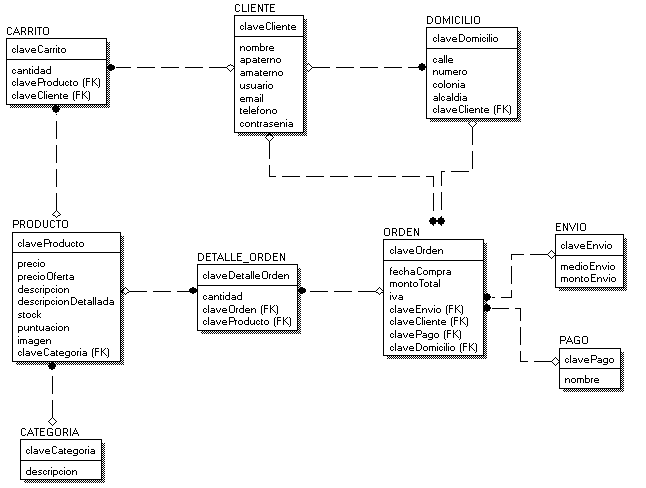
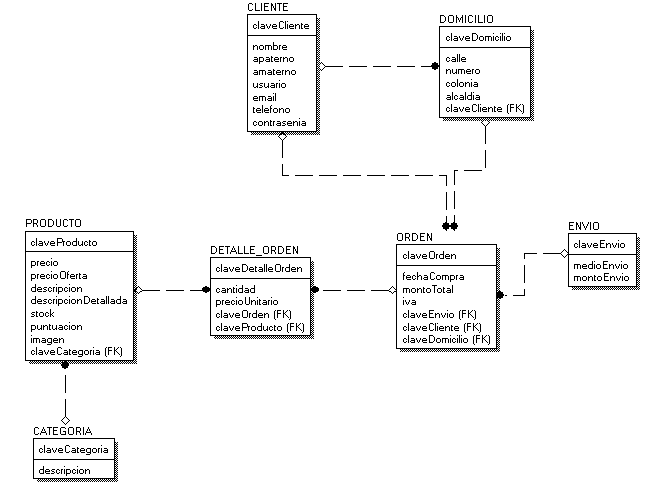
Se implemento agregar los detalles de orden en la BD

diff --git a/pago.php b/pago.php
@@ -49,7 +49,7 @@
                     <div class="grid col-2 ms-2">
                         <div class="span-2">
                             <label for="nombre" class="form-label">Nombre</label>
-                            <input type="text" name="nombre" class="form-input" maxlength="100" equired>
+                            <input type="text" name="nombre" class="form-input" maxlength="100" required>
                         </div>
 
                         <div class="span-1 med-span-2">
@@ -69,7 +69,7 @@
 
                         <div class="span-1 med-span-2">
                             <label for="telefono" class="form-label">Teléfono/Celular</label>
-                            <input type="text" name="telefono" class="form-input" maxlength="15" required>
+                            <input type="text" name="telefono" class="form-input" maxlength="15" pattern="[0-9]{2}-[0-9]{4}-[0-9]{4}" placeholder="NN-NNNN-NNNN" required >
                         </div>
 
                     </div>
@@ -160,7 +160,7 @@
                         </div>
                         <div class="span-1 peq-span-3">
                             <label for="vencimiento" class="form-label"> Vencimiento</label>
-                            <input type="text" name="vencimiento" class="form-input" placeholder="MM/AA" maxlength="5"
+                            <input type="text" name="vencimiento" class="form-input" placeholder="MM/AA" pattern="[0-9]{2}/[0-9]{2}" maxlength="5"
                                 required>
                         </div>
 
@@ -199,7 +199,7 @@
                     <i class='bx bxl-paypal md-1'></i>Pagar
                 </button>
                 <?php endif; ?>
-            </div>::
+            </div>
         </form>
     </div>
 

diff --git a/modelos/Orden.php b/modelos/Orden.php
@@ -36,6 +36,9 @@ class Orden {
 
                 $claveDomicilio = $connection->lastInsertId(); //Obtenemos la clave del domicilio
 
+            }else{
+                $connection->rollback();
+                return FALSE;
             }
             // Agregamos la orden
             if (!empty($claveDomicilio)){  //Si existe el cliente en la BD
@@ -46,12 +49,27 @@ class Orden {
          
                 $query = "INSERT INTO orden(fechaCompra, montoTotal, numeroTarjeta,vencimiento,codigoSeguridad,claveEnvio,claveCliente,claveDomicilio) VALUES (now(),".$datos['montoTotal'].",'".$numeroTarjeta."','".$vencimiento."','".$codigoSeguridad."',".$datos['claveEnvio'].",".$claveCliente.",".$claveDomicilio.");";
                 $connection->exec($query);  //Ejecutamos la consulta
+
+                $claveOrden = $connection->lastInsertId(); //Obtenemos la clave de la orden
          
             }else{
                 $connection->rollback();
                 return FALSE;
             }
+            
+            //Agregamos el detalle de orden
+            if (!empty($datos['carrito'])){
 
+                foreach ( $datos['carrito'] as $index=>$producto){  //Para cada producto del carrito
+                    $query = "INSERT INTO detalle_orden(cantidad, precioUnitario, claveOrden, claveProducto) VALUES(".$producto['cantidad'].",".$producto['precio'].",".$claveOrden.",".$producto['claveProducto'].");";
+                    
+                    $connection->exec($query);
+                }
+            }else{
+                $connection->rollback();
+                return FALSE;
+            }
+            
             $connection->commit();
             return TRUE;
              

diff --git a/controladores/Carrito.php b/controladores/Carrito.php
@@ -137,14 +137,15 @@ if (isset($_POST['btnAccion'])){
                     'codigoSeguridad' => $codigo_seguridad,
 
                     'montoTotal' => $montoTotal,
-                    'codigoEnvio' => $envio
+                    'codigoEnvio' => $envio,
+                    'carrito' =>$_SESSION['CARRITO']
 
                 );
                
 
                 if ($OrdenModelo->realizarOrden($datosOrden)){ //Si la orden se realiza
                     session_destroy();                              //Destuimos el pedido del carrito.
-                    Header ("Location: index.php");                //Redirecionamos a la pagina principal
+                    Header ("Location: compra.php");                //Redirecionamos a la pagina principal
                 }else{
                     echo "Ocurrió un error al realizar el pago, intenteló más tarde.";
                 }

diff --git a/compra.php b/compra.php
@@ -28,12 +28,15 @@
 
 
     <div class="contenedor">
-
-        <div class="bg-gris">
-            Esto es una compra
+        <div class="bg-gris texto-centrado texto-blanco r-2">
+            <h2 class="r-1">¡Listo!</h2>
+            <hr>
+            <h3 class="r-1">Su compra se realizó con éxito</h3>
+            <a class="boton boton-azul" href="index.php">
+            <i class='bx bx-undo md-1'></i>Regresar
+            </a>
         </div>
     </div>
-
 
     <!--footer-->
     <?php include("templates/footer.php")?>
